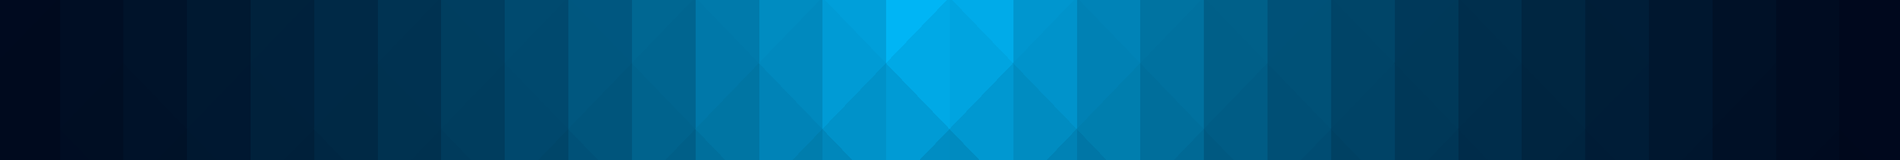
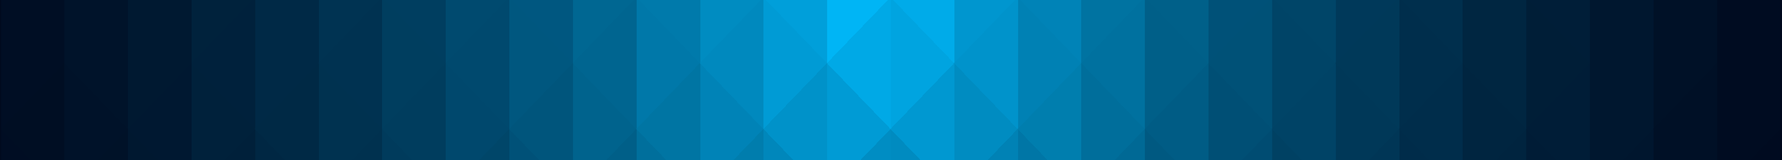
img respons

Changed region(s): [[0.3395, 0.0, 0.3704, 0.7812], [0.3395, 0.8438, 0.3704, 0.875]]

diff --git a/css/style.css b/css/style.css
@@ -7748,12 +7748,19 @@ BLOG PAGE
 	left: -100%;
 	width: 320px;
 	bottom: 0;
-	background-color: #005daa;
 	z-index: 100;
 	-webkit-transition: all 0.3s ease 0s;
 	-o-transition: all 0.3s ease 0s;
 	transition: all 0.3s ease 0s;
 	z-index: 100;
+	background-image: url("../images/menu-respons.png");
+	background-image: no-repeat;
+	background-image: fixed;
+	background-image: center;
+	-webkit-background-size: cover;
+	-moz-background-size: cover;
+	-o-background-size: cover;
+	background-size: cover;
 }
 
 .box-mobile-menu.open {
@@ -9396,7 +9403,6 @@ RESPONSIVE
 
 
 #header {
-	background: #005daa;
 	background-image: url("../images/pichinchaHead2.png");
 	background-image: no-repeat;
 	background-image: fixed;
@@ -9425,4 +9431,20 @@ RESPONSIVE
 
 .style-10 {
 	background: #425ca8;
+}
+
+@media (max-width: 680px) {
+	#header {
+		background-image: url("../images/head-respons.png");
+		background-image: no-repeat;
+		background-image: fixed;
+		background-image: center;
+		-webkit-background-size: cover;
+		-moz-background-size: cover;
+		-o-background-size: cover;
+		background-size: cover;
+	}
+	.footer{
+		background-image: url("../images/footer-respons.png");
+	}
 }
